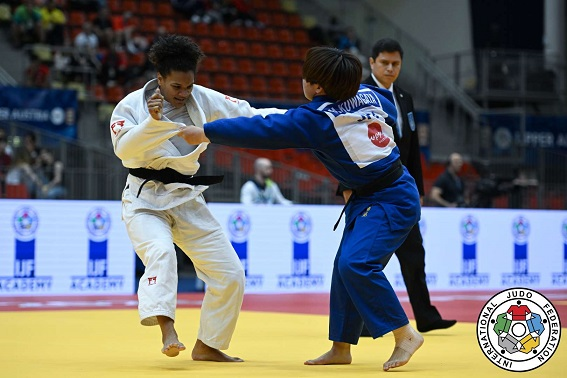
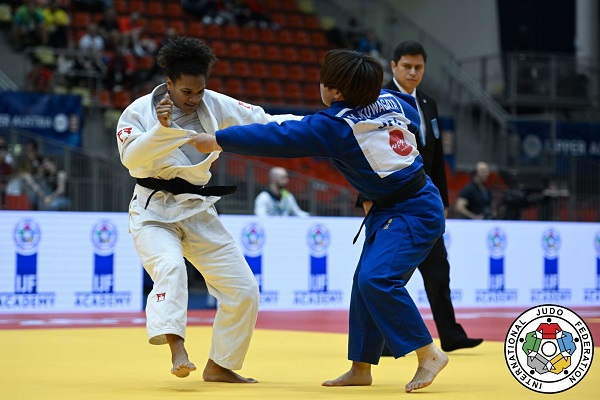
Mis o jour de l'implementation des components discipline et discipline-list

diff --git a/src/app/services/disciplineService.ts b/src/app/services/disciplineService.ts
@@ -12,17 +12,75 @@ export class DisciplineServices{
           nom: "Boxe",
           type: "combat à deux",
           popularite: "",
-          histoire: "",
-          url:""
+          histoire: "La boxe anglaise, aussi appelée le noble art, est un sport de combat dans lequel deux adversaires, de même catégorie de poids et de même sexe, se rencontrent sur un ring, munis de gants rembourrés afin de limiter le risque de coupure, et s'échangent des coups de poing, portés au visage et au buste. Le combat est divisé en intervalles de temps, les rounds, ou reprises en français, séparés par une minute de repos annoncée par une cloche où le pugiliste pourra être conseillé et soigné si besoin. \n Que ce soit en boxe olympique ou professionnelle, les boxeurs tentent d\'éviter les coups de poing de leur adversaire tout en essayant de le toucher. Des points sont attribués à chaque coup considéré comme net, puissant et précis. À la fin du combat, le boxeur ayant le plus de points est déclaré vainqueur. La victoire peut également être atteinte si un combattant met son adversaire hors de combat (par knockout ou KO), c\'est-à-dire dans l\'incapacité de se relever et de reprendre le combat après le compte de dix secondes de l\'arbitre. Un combattant est également déclaré vainqueur si son adversaire blessé ne peut continuer le combat (KO technique ou TKO).",
+          url:"assets/boxing_mens.png"
         },
          {
             id: 2,
             nom: "Natation",
-            type: "",
+            type: "epreuve personnel",
             popularite: "",
-            histoire: "",
-            url:""
+            histoire: "La natation figure au programme des Jeux olympiques d'été depuis la première édition des Jeux olympiques modernes en 1896. Avec l'athlétisme, c'est le sport attribuant généralement le plus de médailles (37 épreuves pour 111 médailles décernées lors des Jeux olympiques de 2024). \n C\'est également le sport dont le nombre de participants est le plus élevé aux Jeux avec l\'athlétisme. Partageant avec ce dernier une médiatisation et une couverture plus importantes que la plupart des autres sports olympiques, la natation est au centre des attentions durant les compétitions.",
+            url:"assets/natation1.jpg"
         },
+        {
+            id: 3,
+            nom: "Athlétisme",
+            type: "epreuve personnel",
+            popularite: "",
+            histoire: "L'athlétisme figure au programme des Jeux olympiques depuis la première édition en 1896 pour les hommes et depuis 1928 pour les femmes. Il est le sport qui compte le plus grand nombre d\'épreuves lors des Jeux olympiques (48 épreuves depuis 2020) avec la natation. Les compétitions se déroulent généralement dans le stade olympique. \n L\'athlétisme (du grec ancien ἀθλητής / athlêtês, « participant à une compétition », dérivé de ἆθλος  / áthlos, « concours ») est un ensemble d'épreuves sportives codifiées comprenant les courses, sauts, lancers, épreuves combinées et marche. Il s'agit de l'art de dépasser la performance des adversaires en vitesse ou en endurance, en distance ou en hauteur. Les épreuves athlétiques, individuelles ou par équipes, ont varié avec le temps et les mentalités. L'athlétisme est l'un des rares sports universellement pratiqués, que ce soit dans le monde amateur ou au cours de nombreuses compétitions de tous niveaux. La simplicité, le caractère naturel et le peu de moyens nécessaires à sa pratique expliquent en partie ce succès. Les premières traces de concours athlétiques remontent aux civilisations antiques. La discipline s'est développée au cours des siècles, des premières épreuves à sa codification.",
+            url:"assets/athletisme1.jpg"
+        },
+        {
+            id: 4,
+            nom: "Footbal masculin",
+            type: "Sport collectif",
+            popularite: "",
+            histoire: "Le football aux Jeux olympiques d'été est une discipline olympique depuis les Jeux olympiques de 1900 à Paris. Les Jeux olympiques furent la première compétition internationale de l'histoire du football, et subirent plusieurs changements en raison du professionnalisme, de la création de la coupe du monde ou du développement du football à travers le monde. Les champions olympiques en titre sont chez les hommes le Brésil et chez les femmes le Canada. \n Autrefois réservé aux amateurs, le tournoi olympique s\'est ouvert aux professionnels à partir des Jeux de 1984, mais sous certaines conditions. Actuellement le comité international olympique n\'autorise que les joueurs de moins de 23 ans à prendre part à la compétition pour les équipes masculines (trois joueurs peuvent faire exception depuis 1996). En outre, la FIFA n\'inscrit pas les olympiades dans son calendrier, rendant donc les clubs moins enclins à prêter leurs joueurs, ce qui peut poser problème à certaines sélections disputant les Jeux olympiques2. En revanche, de telles restrictions et conditions n\'existent pas en ce qui concerne le tournoi féminin, où les équipes alignées ne diffèrent donc pas de celles disputant par ailleurs la Coupe du monde de la FIFA.",
+            url:"assets/foot1.jpg"
+        },
+        {
+            id: 5,
+            nom: "Footbal feminin",
+            type: "Sport collectif",
+            popularite: "",
+            histoire: "Le football aux Jeux olympiques d'été est une discipline olympique depuis les Jeux olympiques de 1900 à Paris. Les Jeux olympiques furent la première compétition internationale de l'histoire du football, et subirent plusieurs changements en raison du professionnalisme, de la création de la coupe du monde ou du développement du football à travers le monde. Les champions olympiques en titre sont chez les hommes le Brésil et chez les femmes le Canada. \n Autrefois réservé aux amateurs, le tournoi olympique s\'est ouvert aux professionnels à partir des Jeux de 1984, mais sous certaines conditions. Actuellement le comité international olympique n\'autorise que les joueurs de moins de 23 ans à prendre part à la compétition pour les équipes masculines (trois joueurs peuvent faire exception depuis 1996). En outre, la FIFA n\'inscrit pas les olympiades dans son calendrier, rendant donc les clubs moins enclins à prêter leurs joueurs, ce qui peut poser problème à certaines sélections disputant les Jeux olympiques2. En revanche, de telles restrictions et conditions n\'existent pas en ce qui concerne le tournoi féminin, où les équipes alignées ne diffèrent donc pas de celles disputant par ailleurs la Coupe du monde de la FIFA.",
+            url:"assets/foot2.jpg"
+        },
+        {
+            id: 6,
+            nom: "Athlétisme feminin",
+            type: "Sport collectif",
+            popularite: "",
+            histoire: "L'athlétisme figure au programme des Jeux olympiques depuis la première édition en 1896 pour les hommes et depuis 1928 pour les femmes. Il est le sport qui compte le plus grand nombre d\'épreuves lors des Jeux olympiques (48 épreuves depuis 2020) avec la natation. Les compétitions se déroulent généralement dans le stade olympique. \n L\'athlétisme (du grec ancien ἀθλητής / athlêtês, « participant à une compétition », dérivé de ἆθλος  / áthlos, « concours ») est un ensemble d'épreuves sportives codifiées comprenant les courses, sauts, lancers, épreuves combinées et marche. Il s'agit de l'art de dépasser la performance des adversaires en vitesse ou en endurance, en distance ou en hauteur. Les épreuves athlétiques, individuelles ou par équipes, ont varié avec le temps et les mentalités. L'athlétisme est l'un des rares sports universellement pratiqués, que ce soit dans le monde amateur ou au cours de nombreuses compétitions de tous niveaux. La simplicité, le caractère naturel et le peu de moyens nécessaires à sa pratique expliquent en partie ce succès. Les premières traces de concours athlétiques remontent aux civilisations antiques. La discipline s'est développée au cours des siècles, des premières épreuves à sa codification.",
+            url:"assets/athletisme3.jpg"
+        },
+        {
+            id: 7,
+            nom: "Saut à la perche",
+            type: "Sport individuel",
+            popularite: "",
+            histoire: "Le saut à la perche masculin figure au programme des Jeux olympiques depuis la première édition, en 1896 à Athènes. Les femmes ne participent à cette épreuve que depuis les Jeux olympiques de Sydney, en 2000.  Avec deux médailles d\'or remportées, l\'Américain Bob Richards et la Russe Yelena Isinbayeva sont les athlètes les plus titrés dans cette épreuve. Les États-Unis ont remporté les 16 premiers titres masculins, de 1896 à 1968. \n  Les records olympiques de la discipline sont actuellement détenus par le Brésilien Thiago Braz da Silva, auteur de 6,03 m en finale des Jeux olympiques de 2016, à Rio1, et par Yelena Isinbayeva, créditée de 5,05 m aux Jeux olympiques de 2008, à Pékin2." ,
+            url: "assets/saut0.jpg"
+        },
+        
+        {
+            id: 8,
+            nom: "Lancé javelot",
+            type: "Sport individuel",
+            popularite: "",
+            histoire: " Le lancer du javelot masculin figure au programme des Jeux olympiques depuis la quatrième édition, en 1908 à Londres. Les femmes participent à cette épreuve depuis les Jeux de 1932, à Los Angeles. Avec trois médailles d\'or remportées, le Tchèque Jan Železný est l\'athlète le plus titré dans cette épreuve. Sa compatriote Barbora Špotáková et l'Allemande Ruth Fuchs, avec deux titres, détiennent quant à elles le record de victoires féminines. \n Les records olympiques de la discipline sont actuellement détenus par le Norvégien Andreas Thorkildsen, auteur de 90,57 m en finale des Jeux olympiques de 2008, à Pékin1, et par la Cubaine Olisdeilys Menéndez, créditée de 71,53 m lors des Jeux olympiques de 2004, à Athènes2." ,
+            url: "assets/lance00.jpg"
+        },
+        {
+            id: 9,
+            nom: "Judo",
+            type: "Sport individuel",
+            popularite: "",
+            histoire: "Le judo (jūdō?, litt. « voie de la souplesse ») est un art martial, créé au Japon en 1882 par Jigorō Kanō en tant que pédagogie physique, mentale et morale. Par rapport au Kobudō1, ou « voie martiale traditionnelle », le judo est ce qu'on appelle un shin budō, c'est-à-dire une « voie martiale moderne », dont une branche a évolué en sport de combat puis en sport olympique à l'occasion des Jeux olympiques de Tokyo de 1964. \n L\'objectif principal du judoka en compétition est de projeter son adversaire sur le dos, soit de l\'amener au sol et de l'immobiliser (techniques de maîtrise), ou de l'obliger à abandonner à l'aide de clés articulaires et d'étranglements. Les règles du judo ont évolué depuis la création de l\'art martial et les techniques de percussion ainsi que les armes traditionnelles ne sont autorisées que dans sa forme théorique (kata) ; elles ne sont pas autorisées en compétition, ni même en pratique libre (randori).",
+            url: "assets/judo3.jpg"
+        }
+       
     ];
 
     getAllDisciplines():DisciplineSportive[]

diff --git a/src/app/discipline/discipline.component.scss b/src/app/discipline/discipline.component.scss
@@ -1,7 +1,7 @@
 .app-discipline-card{
     margin-top: 20px;
     
-    h2,h3,h4,p{
+    div h2{
         font-family: "Manrope", sans-serif;
         font-optical-sizing: auto;
         font-weight: 470;
@@ -13,14 +13,16 @@
         
         color: #F9F8FF;
 
-        margin-bottom: 10px;
+        margin-bottom: 20px;
       }
 }
 
 img{
-    margin-left: 40px;
-    width: 70%;
-    height: 70%;
+    margin-left:20px;
+
+    width: 90%;
+    height: 80%;
+    margin-bottom: 0px;
 }
 
 .container{
@@ -30,7 +32,7 @@ img{
 
 .text-overlay{
     position: absolute;
-    top: 0;
+    top: 10;
     left: 0;
     right: 0;
     bottom: 0; 
@@ -42,7 +44,7 @@ img{
     font-size: 1.4em;
     color: white;
     //background-color:red;
-    margin-left: 40px;
+    margin-left: 20px;
     height: 30px;
     background-color: rgba(0, 0, 0, 0.7);
     display: none;

diff --git a/src/app/discipline/discipline.component.html b/src/app/discipline/discipline.component.html
@@ -5,13 +5,13 @@
 <div class="app-discipline-card">
 
    <div  style="text-align: center;"> 
-       <h2 style="display: inline;">{{current_discipline.nom}}: </h2>  
-       <h3 style="display: inline;"> {{current_discipline.type}} </h3>
+       <h2 style="display: inline;">{{current_discipline.nom}} </h2>  
+    <!--   <h3 style="display: inline;"> {{current_discipline.type}} </h3> -->
     </div> 
 
     <div> 
         <a class="container" href="alldiscipline/{{current_discipline.id}}">
-            <img class="img-medaille" src="{{current_discipline.url}}" alt="Url medaille">
+            <img class="img-discipline" src="{{current_discipline.url}}" alt="Url medaille">
             <div class="text-overlay">Voir détail</div> 
         </a> 
     </div> 

diff --git a/src/app/discipline-list/discipline-list.component.scss b/src/app/discipline-list/discipline-list.component.scss
@@ -1,0 +1,13 @@
+.grid-container{ 
+    background-color:#1F2039;
+
+    img {
+      width: 5%; /* Ajuste la largeur de l'image pour remplir la cellule de la grille */
+      height: auto; /* Ajuste automatiquement la hauteur en fonction de la largeur */
+      object-fit: cover; /* Ajuste l'image pour remplir la zone tout en conservant son ratio */
+    }
+
+  display: grid;
+  grid-template-columns: repeat(auto-fit, minmax(350px, 2fr));
+  gap: 15px;
+}
